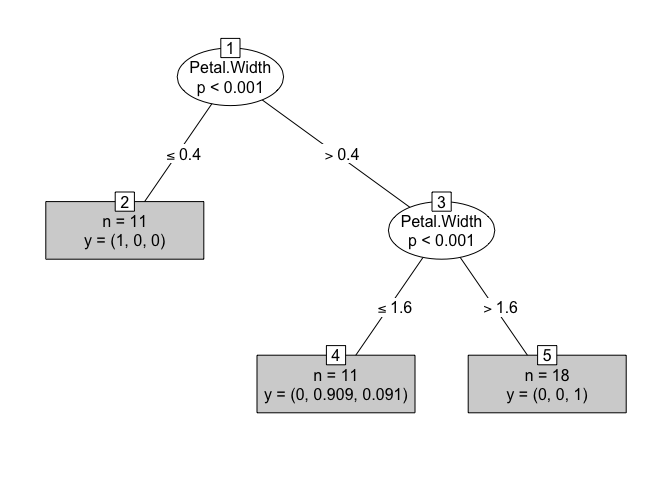
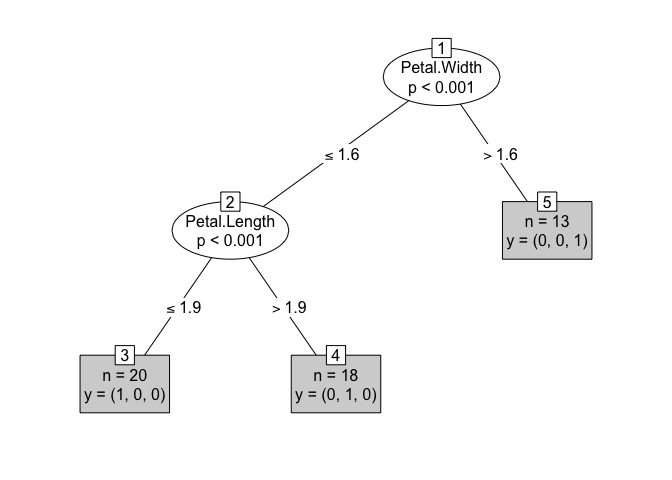
02/16/2021 5:28 PM

diff --git a/3_Data_Analysis_with_R/05_Structured_Data_Mining.md b/3_Data_Analysis_with_R/05_Structured_Data_Mining.md
@@ -400,6 +400,15 @@ ROC Curve
   - k 최근접 이웃(KNN, K-Nearest Neighborhood)
   - 규칙기반의 분류와 사례기반추론(Case-Based Reasoning)
 
+**기출문제**  
+**98. 한 보험회사에서는 자사 고객의 보험갱신 여부를 고객의 연구통계학적 특성, 보험가입 채널, 상품 종류 등의 정보를
+사용하여 예측하려고 한다. 다음 중 가장 적절한 분석 기법은 무엇인가?**
+
+1.  시계열 분석  
+2.  **랜덤포레스트**  
+3.  k-means 군집분석  
+4.  주성분분석
+
 ## 2\. 로지스틱 회귀분석 (Logistic Regression)
 
   - 반응변수가 범주형인 경우에 적용되는 회귀분석모형이다
@@ -600,6 +609,14 @@ ROC Curve
   - 일반적으로 사용되는 방법은 마디에 속하는 **자료가 일정 수 (가령 5)이하** 일 떄 분할을 정지하고 **비용-복잡도
     가지치기(cost complexity pruning)를 이용** 하여 성장시킨 나무를 가지치기하게 된다
 
+**기출문제**  
+**100. 다음 중 의사결정나무의 특성으로 가장 부적절한 것은?**
+
+1.  의사결정나무 무형의 결과는 누구에게나 설명이 용이하다  
+2.  의사결정나무 알고리즘의 모형 정확도는 다른 분류모형에 뒤지지 않는다  
+3.  의사결정나무를 만드는 방법은 계산적으로 복잡하지 않다  
+4.  **의사결정나무 알고리즘은 정상적인 데이터에 대해서만 민감함이 없이 분류할 수 있다**
+
 ## 4\. 불순도의 여러 가지 측도
 
   - 목표변수가 범주형 변수인 의사결정나무의 분류규칙을 선택하기 위해서는 카이제곱 통계량, 지니 지수, 엔트로피 지수를 활용한다
@@ -688,9 +705,9 @@ table(predict(iris.tree), train.data$Species)
 
     ##             
     ##              setosa versicolor virginica
-    ##   setosa         11          0         0
-    ##   versicolor      0         10         1
-    ##   virginica       0          0        18
+    ##   setosa         20          0         0
+    ##   versicolor      0         18         0
+    ##   virginica       0          0        13
 
   - **\[4\] test data 를 적용하여 정확성 확인**
 
@@ -703,6 +720,6 @@ table(test.pre, test.data$Species)
 
     ##             
     ## test.pre     setosa versicolor virginica
-    ##   setosa         37          0         0
-    ##   versicolor      2         38         3
-    ##   virginica       0          2        28
+    ##   setosa         30          0         0
+    ##   versicolor      0         30         4
+    ##   virginica       0          2        33
